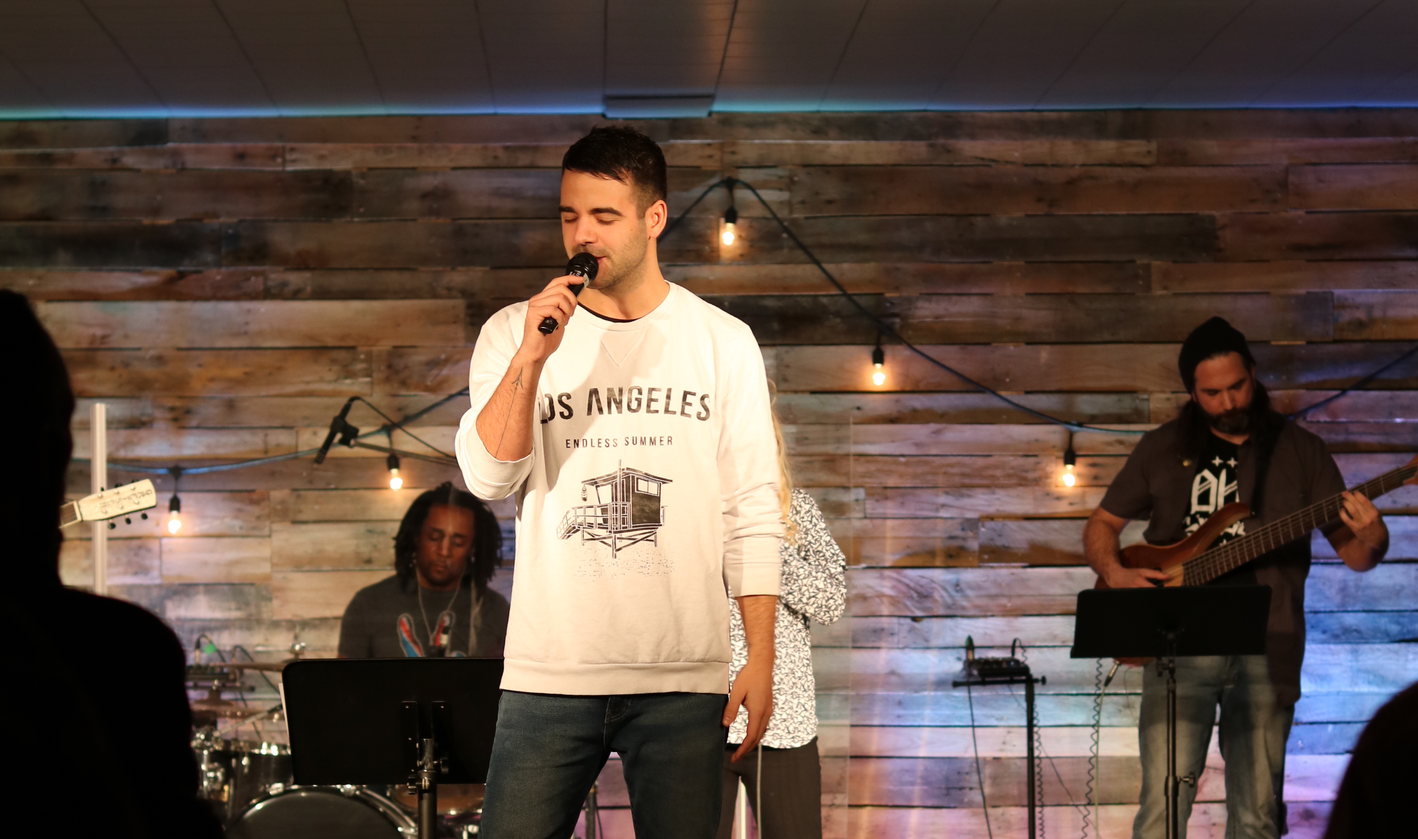
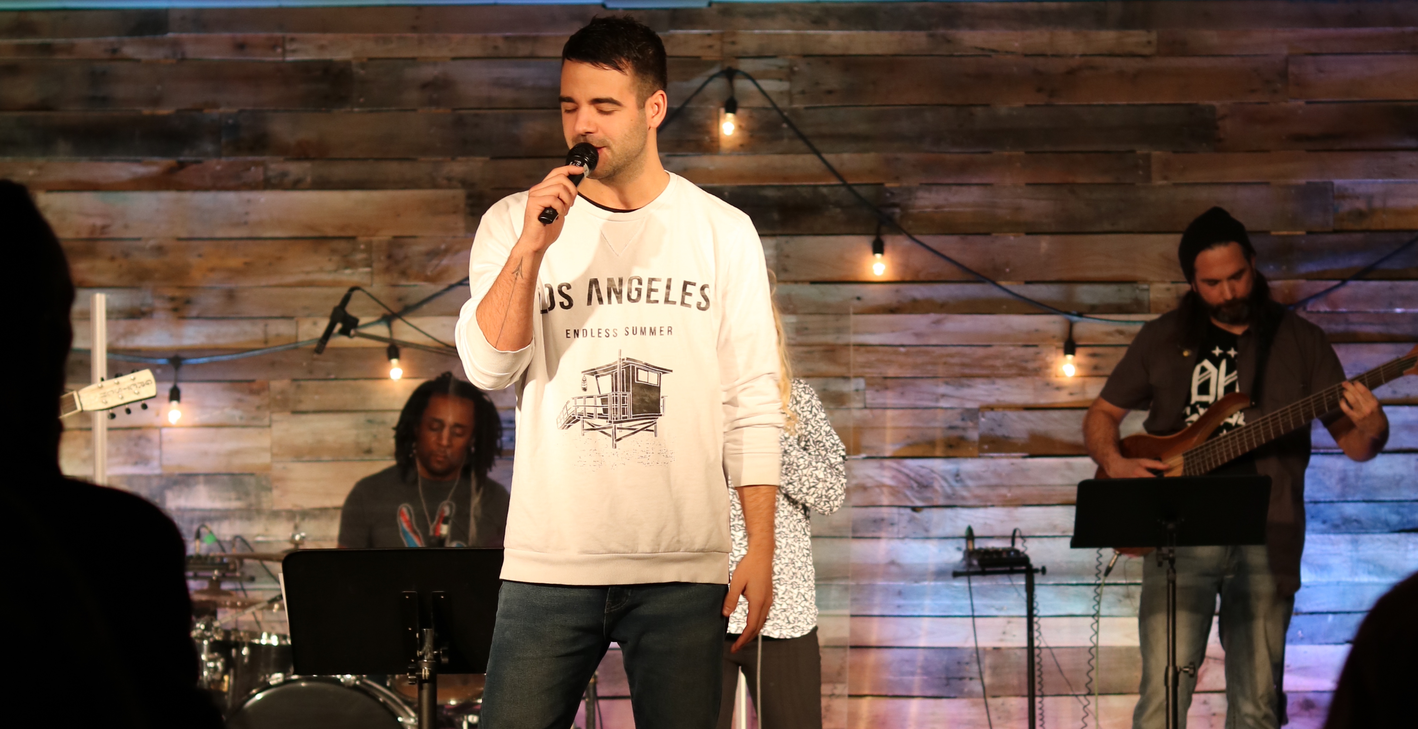
some change

diff --git a/src/pages/messages/index.vue b/src/pages/messages/index.vue
@@ -54,5 +54,6 @@ export default {
   }
   .hero-messages {
     background-image: url(../../assets/sam-preche.jpg);
+    background-position: top !important;
   }
 </style>

diff --git a/src/router/index.js b/src/router/index.js
@@ -13,7 +13,6 @@ Vue.use(Meta)
 Vue.use(Router)
 
 export default new Router({
-  mode: 'history',
   routes: [
     {
       path: '/',
